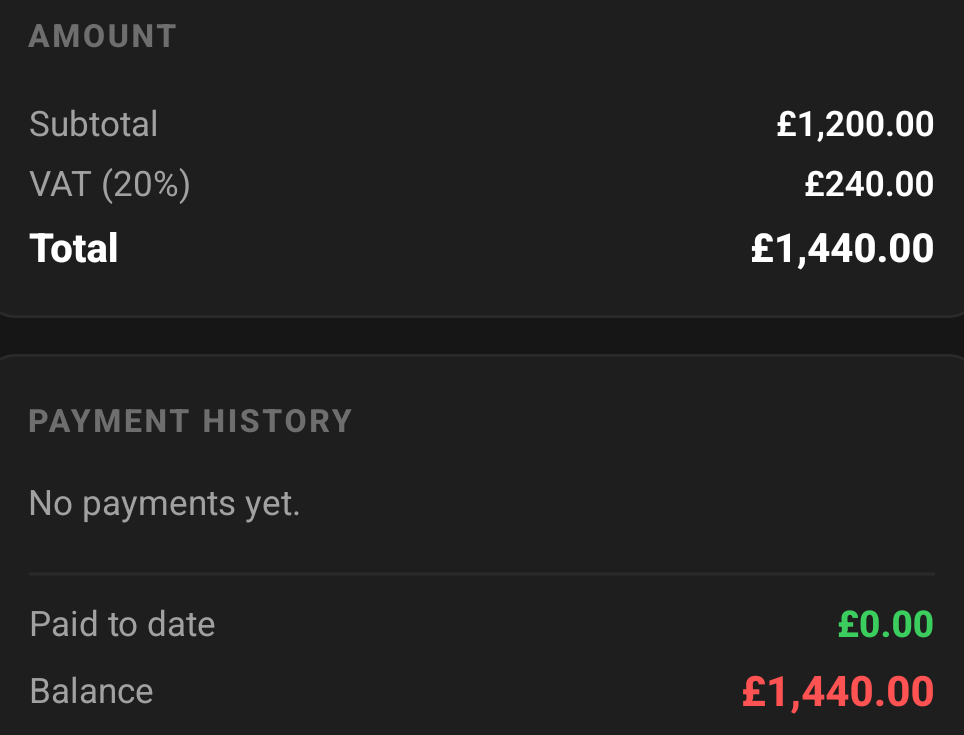
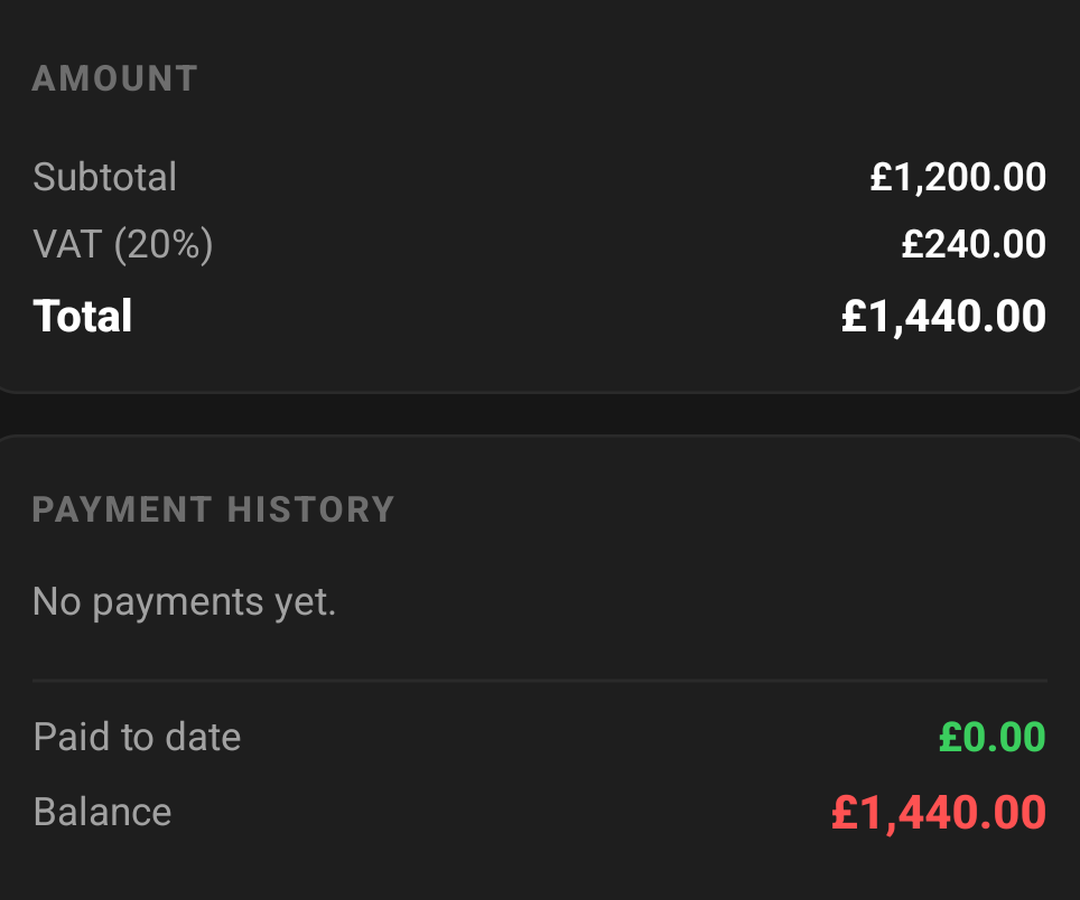
One size for all five app screens, the repeating box under the numbers gone, and the header button off on a phone

diff --git a/index.html b/index.html
@@ -22,7 +22,7 @@
 <link rel="preconnect" href="https://fonts.googleapis.com">
 <link rel="preconnect" href="https://fonts.gstatic.com" crossorigin>
 <link href="https://fonts.googleapis.com/css2?family=Archivo:ital,wdth,wght@0,62..125,100..900&family=Inter:wght@400;500;600;700&display=swap" rel="stylesheet">
-<link rel="stylesheet" href="styles.css?v=7">
+<link rel="stylesheet" href="styles.css?v=8">
 </head>
 <body>
 
@@ -115,48 +115,38 @@
       <div class="carousel" data-carousel>
         <ul class="carousel-track">
           <li class="slide shot" data-slide>
-            <span class="slide-media">
-              <img src="assets/app-voice.png" width="964" height="860" loading="eager" decoding="async" alt="The quote review screen in YellowTradie, showing materials spoken on site turned into line items with quantities, unit prices and totals.">
-            </span>
+              <img src="assets/app-voice.png?v=2" width="1080" height="900" loading="eager" decoding="async" alt="The quote review screen in YellowTradie, showing materials spoken on site turned into line items with quantities, unit prices and totals.">
             <div class="slide-copy">
               <h3 class="display display--xs">The quote writes itself</h3>
               <p>Say what the job needs. Every material comes out with a quantity, a unit price and a total, at your rates.</p>
             </div>
           </li>
           <li class="slide shot" data-slide>
-            <span class="slide-media">
-              <img src="assets/app-chase.png" width="975" height="595" loading="lazy" decoding="async" alt="The chase list in YellowTradie, showing an invoice that is 17 days late with the customer name, the invoice number, the amount owed and a Chase button.">
-            </span>
+              <img src="assets/app-chase.png?v=2" width="1080" height="900" loading="lazy" decoding="async" alt="The chase list in YellowTradie, showing an invoice that is 17 days late with the customer name, the invoice number, the amount owed and a Chase button.">
             <div class="slide-copy">
               <h3 class="display display--xs">Who owes you money</h3>
               <p>The late invoices and the quiet quotes sit at the top, with the reason each one is there down to the day.</p>
             </div>
           </li>
           <li class="slide shot" data-slide>
-            <span class="slide-media">
-              <img src="assets/app-invoice.png" width="964" height="735" loading="lazy" decoding="async" alt="An invoice in YellowTradie marked Overdue, showing the issue date, the due date, the VAT breakdown, the amount paid and the balance left.">
-            </span>
+              <img src="assets/app-invoice.png?v=2" width="1080" height="900" loading="lazy" decoding="async" alt="An invoice in YellowTradie marked Overdue, showing the issue date, the due date, the VAT breakdown, the amount paid and the balance left.">
             <div class="slide-copy">
               <h3 class="display display--xs">An invoice that looks the part</h3>
               <p>Your business details, the VAT broken out, the payment history and the balance at the bottom.</p>
             </div>
           </li>
           <li class="slide shot" data-slide>
-            <span class="slide-media">
-              <img src="assets/app-tax.png" width="964" height="875" loading="lazy" decoding="async" alt="The quarterly tax report in YellowTradie, showing money in, money out, taxable profit, the tax to set aside and the days left in the HMRC quarter.">
-            </span>
+              <img src="assets/app-tax.png?v=2" width="1080" height="900" loading="lazy" decoding="async" alt="The quarterly tax report in YellowTradie, showing money in, money out, taxable profit, the tax to set aside and the days left in the HMRC quarter.">
             <div class="slide-copy">
               <h3 class="display display--xs">Your quarter, already worked out</h3>
-              <p>Money in, money out, taxable profit and the tax to set aside, for the quarter you are in.</p>
+              <p>Money in, money out, taxable profit and the tax to set aside, for the quarter you are in. It counts money that has landed, not invoices you have sent.</p>
             </div>
           </li>
           <li class="slide shot" data-slide>
-            <span class="slide-media">
-              <img src="assets/app-customer.png" width="1170" height="1700" loading="lazy" decoding="async" alt="The quote page the customer opens on their own phone, showing the work included and the buttons to approve the quote, ask for a change or say no.">
-            </span>
+              <img src="assets/app-customer.png?v=2" width="1080" height="900" loading="lazy" decoding="async" alt="The quote page the customer opens on their own phone, showing the work included and the buttons to approve the quote, ask for a change or say no.">
             <div class="slide-copy">
               <h3 class="display display--xs">Your customer says yes on their phone</h3>
-              <p>They open a link, read the quote and approve it, ask for a change or say no. The answer lands back in the app with their words and the date.</p>
+              <p>They open a link, read the quote and approve it, ask for a change or say no. The answer lands back in the app with their words and the date, so you are not ringing round to find out.</p>
             </div>
           </li>
         </ul>
@@ -169,29 +159,6 @@
           <button type="button" class="dot" data-slide-to="4" role="tab" aria-selected="false"><span class="sr-only">Customer quote page</span>5</button>
         </div>
 
-        <!-- One panel per screen, and only the one you are looking at shows.
-             Before this it was a single paragraph that never changed, which
-             read as though it belonged to nothing. Pete's catch, 2026-09-22. -->
-        <details class="reveal reveal--wide">
-          <summary><span class="reveal-title">What you just saw</span></summary>
-          <div class="reveal-body">
-            <div class="reveal-panel" data-reveal-panel>
-              <p><strong>The quote writes itself.</strong> You talk the job through standing in the room. Every material comes out with a quantity, a unit price and a total, priced at your own rates, with VAT added if you are registered. Check it, then send it as a PDF by text, WhatsApp or email.</p>
-            </div>
-            <div class="reveal-panel" data-reveal-panel hidden>
-              <p><strong>Who owes you money.</strong> The late invoices and the quiet quotes sit at the top, and the app tells you why each one is there down to the day. The reminder is written for you, and nothing is sent until you tap send.</p>
-            </div>
-            <div class="reveal-panel" data-reveal-panel hidden>
-              <p><strong>An invoice that looks the part.</strong> The job is already in the app, so the invoice is built from the work you did. Your business details, the VAT broken out, the payments logged and the balance at the bottom, sent as a PDF your customer can pay from.</p>
-            </div>
-            <div class="reveal-panel" data-reveal-panel hidden>
-              <p><strong>Your quarter, already worked out.</strong> Money in, money out, taxable profit and the tax to set aside, for the quarter you are in. It counts money that has landed rather than invoices you have sent, and it shows the days left in the quarter.</p>
-            </div>
-            <div class="reveal-panel" data-reveal-panel hidden>
-              <p><strong>Your customer says yes on their phone.</strong> They open a link, read the quote and approve it, ask for a change or say no. The answer lands back in the app with their words and the date, so you are not ringing round to find out.</p>
-            </div>
-          </div>
-        </details>
       </div>
     </div>
   </section>
@@ -215,7 +182,6 @@
             <span class="step-head">
               <h3 class="display display--xs group-title">Catch it</h3>
               <span class="step-line">The missed call is taken as a message, before you climb down.</span>
-            </span>
           </summary>
           <div class="step-body">
             <div class="card">
@@ -235,7 +201,6 @@
             <span class="step-head">
               <h3 class="display display--xs group-title">Quote it</h3>
               <span class="step-line">Say it out loud. A priced PDF goes out in a minute.</span>
-            </span>
           </summary>
           <div class="step-body">
             <div class="card">
@@ -259,7 +224,6 @@
             <span class="step-head">
               <h3 class="display display--xs group-title">Book it</h3>
               <span class="step-line">In the diary while you are still standing with them.</span>
-            </span>
           </summary>
           <div class="step-body">
             <div class="card">
@@ -283,7 +247,6 @@
             <span class="step-head">
               <h3 class="display display--xs group-title">Run it</h3>
               <span class="step-line">Photos, notes, costs and hours. All on the job.</span>
-            </span>
           </summary>
           <div class="step-body">
             <div class="card">
@@ -307,7 +270,6 @@
             <span class="step-head">
               <h3 class="display display--xs group-title">Get paid</h3>
               <span class="step-line">Invoice in a tap, with the chasing already written.</span>
-            </span>
           </summary>
           <div class="step-body">
             <div class="card">
@@ -331,7 +293,6 @@
             <span class="step-head">
               <h3 class="display display--xs group-title">Tax sorted</h3>
               <span class="step-line">The quarterly figures, ready when you need them.</span>
-            </span>
           </summary>
           <div class="step-body">
             <div class="card">

diff --git a/app.js b/app.js
@@ -252,8 +252,6 @@ const FORM_ENDPOINT = "https://formspree.io/f/xrpbqypw";
   const reduced = window.matchMedia("(prefers-reduced-motion: reduce)").matches;
   const DELAY = 4500;
 
-  const panels = Array.prototype.slice.call(carousel.querySelectorAll("[data-reveal-panel]"));
-
   let current = 0;
   let stopped = false;
   let timer = null;
@@ -263,35 +261,15 @@ const FORM_ENDPOINT = "https://formspree.io/f/xrpbqypw";
     return slides[index].offsetLeft - slides[0].offsetLeft;
   }
 
-  /* The row is only ever as tall as the screen you are looking at. The slides
-     keep their own height (align-items: flex-start, in the stylesheet), so a
-     slide can be measured even while the row around it is a different size. */
-  function fit(animate) {
-    const height = slides[current].offsetHeight;
-    track.style.transition = animate && !reduced ? "height .2s ease" : "none";
-    track.style.height = height + "px";
-  }
-
-  /* While a thumb is on it, the row takes the height of the tallest screen so
-     nothing is clipped mid swipe. It settles back on the one you land on. */
-  function relax() {
-    let tallest = 0;
-    slides.forEach(function (slide) { tallest = Math.max(tallest, slide.offsetHeight); });
-    track.style.transition = "none";
-    track.style.height = tallest + "px";
-  }
-
   function paint() {
     dots.forEach(function (dot, i) {
       dot.classList.toggle("is-current", i === current);
       dot.setAttribute("aria-selected", i === current ? "true" : "false");
     });
-    panels.forEach(function (panel, i) { panel.hidden = i !== current; });
   }
 
   function goTo(index, smooth) {
     current = (index + slides.length) % slides.length;
-    fit(smooth);
     track.scrollTo({ left: offsetFor(current), behavior: smooth ? "smooth" : "auto" });
     paint();
   }
@@ -324,17 +302,16 @@ const FORM_ENDPOINT = "https://formspree.io/f/xrpbqypw";
     new IntersectionObserver(function (entries) {
       entries.forEach(function (entry) {
         if (entry.isIntersecting) { nudge(); start(); }
-        else { relax(); stop(); }
+        else stop();
       });
     }, { threshold: 0.35 }).observe(carousel);
   } else {
     start();
   }
 
-  /* One touch and it is the person's carousel, not ours, and the row opens up
-     to the tallest screen for the length of the drag. */
+  /* One touch and it is the person's carousel, not ours. */
   ["pointerdown", "touchstart", "wheel", "keydown"].forEach(function (type) {
-    carousel.addEventListener(type, function () { stopped = true; stop(); relax(); }, { passive: true });
+    carousel.addEventListener(type, function () { stopped = true; stop(); }, { passive: true });
   });
 
   dots.forEach(function (dot) {
@@ -356,24 +333,10 @@ const FORM_ENDPOINT = "https://formspree.io/f/xrpbqypw";
         if (distance < best) { best = distance; nearest = i; }
       });
       if (nearest !== current) { current = nearest; paint(); }
-      fit(true);
     }, 120);
   }, { passive: true });
 
-  window.addEventListener("resize", function () { fit(false); });
-  window.addEventListener("load", function () { fit(false); });
-
-  /* Images and fonts arrive after the first paint and change the height of a
-     slide. The row follows. */
-  Array.prototype.forEach.call(track.querySelectorAll("img"), function (img) {
-    img.addEventListener("load", function () { fit(false); });
-  });
-  if ("ResizeObserver" in window) {
-    const observer = new ResizeObserver(function () { fit(false); });
-    slides.forEach(function (slide) { observer.observe(slide); });
-  }
-
-  fit(false);
+  window.addEventListener("resize", function () { goTo(current, false); });
 })();
 
 /* The missed call calculator.

diff --git a/styles.css b/styles.css
@@ -506,11 +506,6 @@ p:last-child { margin-bottom: 0; }
   display: flex;
   align-items: flex-start;
   overflow-x: auto;
-  /* The height is set by app.js to whatever screen you are on, so the dots sit
-     right under the picture instead of under the tallest of the five. Without
-     the hidden axis the taller slides would scroll up and down inside the
-     track. See the note on .slide-media below. */
-  overflow-y: hidden;
   scroll-snap-type: x mandatory;
   -webkit-overflow-scrolling: touch;
   scrollbar-width: none;
@@ -539,13 +534,11 @@ p:last-child { margin-bottom: 0; }
   background: #fff;
 }
 
-/* The five crops are all different shapes, from the chase list at 1.64 wide to
-   the customer's phone page at 0.69 tall. In a row they stretched every slide to
-   the tallest one, so four of the five carried 129 to 190px of empty space
-   between the picture and its own words. Pete reported that on a phone,
-   2026-09-22. The box below is a plain wrapper; the height of the row is now set
-   to the screen you are looking at, which is done in app.js. */
-.slide-media { display: block; }
+/* All five screens are one size now: 1080 by 900, matted onto a common canvas
+   with each crop's own edge colour. They used to be five different shapes, from
+   the chase list at 1.64 wide to the customer's phone page at 0.69 tall, which
+   made the row change height as you swiped and shoved the rest of the page up
+   and down. Pete: "the numbers are jumping around all over the place". */
 
 /* On a phone the next screen deliberately shows a strip of itself at the edge.
    At full width the edge of a slide lines up with the edge of the phone, which
@@ -646,11 +639,6 @@ p:last-child { margin-bottom: 0; }
 }
 
 .reveal-body { padding: 0 0 20px; color: var(--muted); max-width: 60em; }
-
-/* The panel only for the screen you are looking at. */
-.reveal-panel[hidden] { display: none; }
-.reveal-panel p { margin: 0; }
-.reveal-panel strong { color: var(--black); }
 
 /* --------------------------------------------------------------------------
    The six job stops. A numbered job sheet: one line a stop, the detail
@@ -1239,6 +1227,19 @@ body.modal-open .sticky-cta { display: none; }
 
 @media (max-width: 899px) {
   .carousel-dots { margin-top: 12px; }
-  .reveal { margin-top: 16px; }
-  .carousel .reveal summary { padding: 12px 0; }
+}
+
+/* --------------------------------------------------------------------------
+   The header on a phone. The button goes, because the same button is pinned to
+   the bottom of the screen and sits on the closing block, so the top one was
+   the third of three. What is left is the mark on its own. Pete's call,
+   2026-09-22.
+   -------------------------------------------------------------------------- */
+
+@media (max-width: 859px) {
+  .header-inner { justify-content: center; gap: 0; }
+  .header-inner > .btn { display: none; }
+  /* The nav list is already hidden here, but its wrapper is a plain block, so
+     it stayed in the flex line and its gap pushed the mark off centre. */
+  .header-inner > nav { display: none; }
 }

diff --git a/changelog.html b/changelog.html
@@ -22,7 +22,7 @@
 <link rel="preconnect" href="https://fonts.googleapis.com">
 <link rel="preconnect" href="https://fonts.gstatic.com" crossorigin>
 <link href="https://fonts.googleapis.com/css2?family=Archivo:ital,wdth,wght@0,62..125,100..900&family=Inter:wght@400;500;600;700&display=swap" rel="stylesheet">
-<link rel="stylesheet" href="styles.css?v=7">
+<link rel="stylesheet" href="styles.css?v=8">
 </head>
 <body>
 
